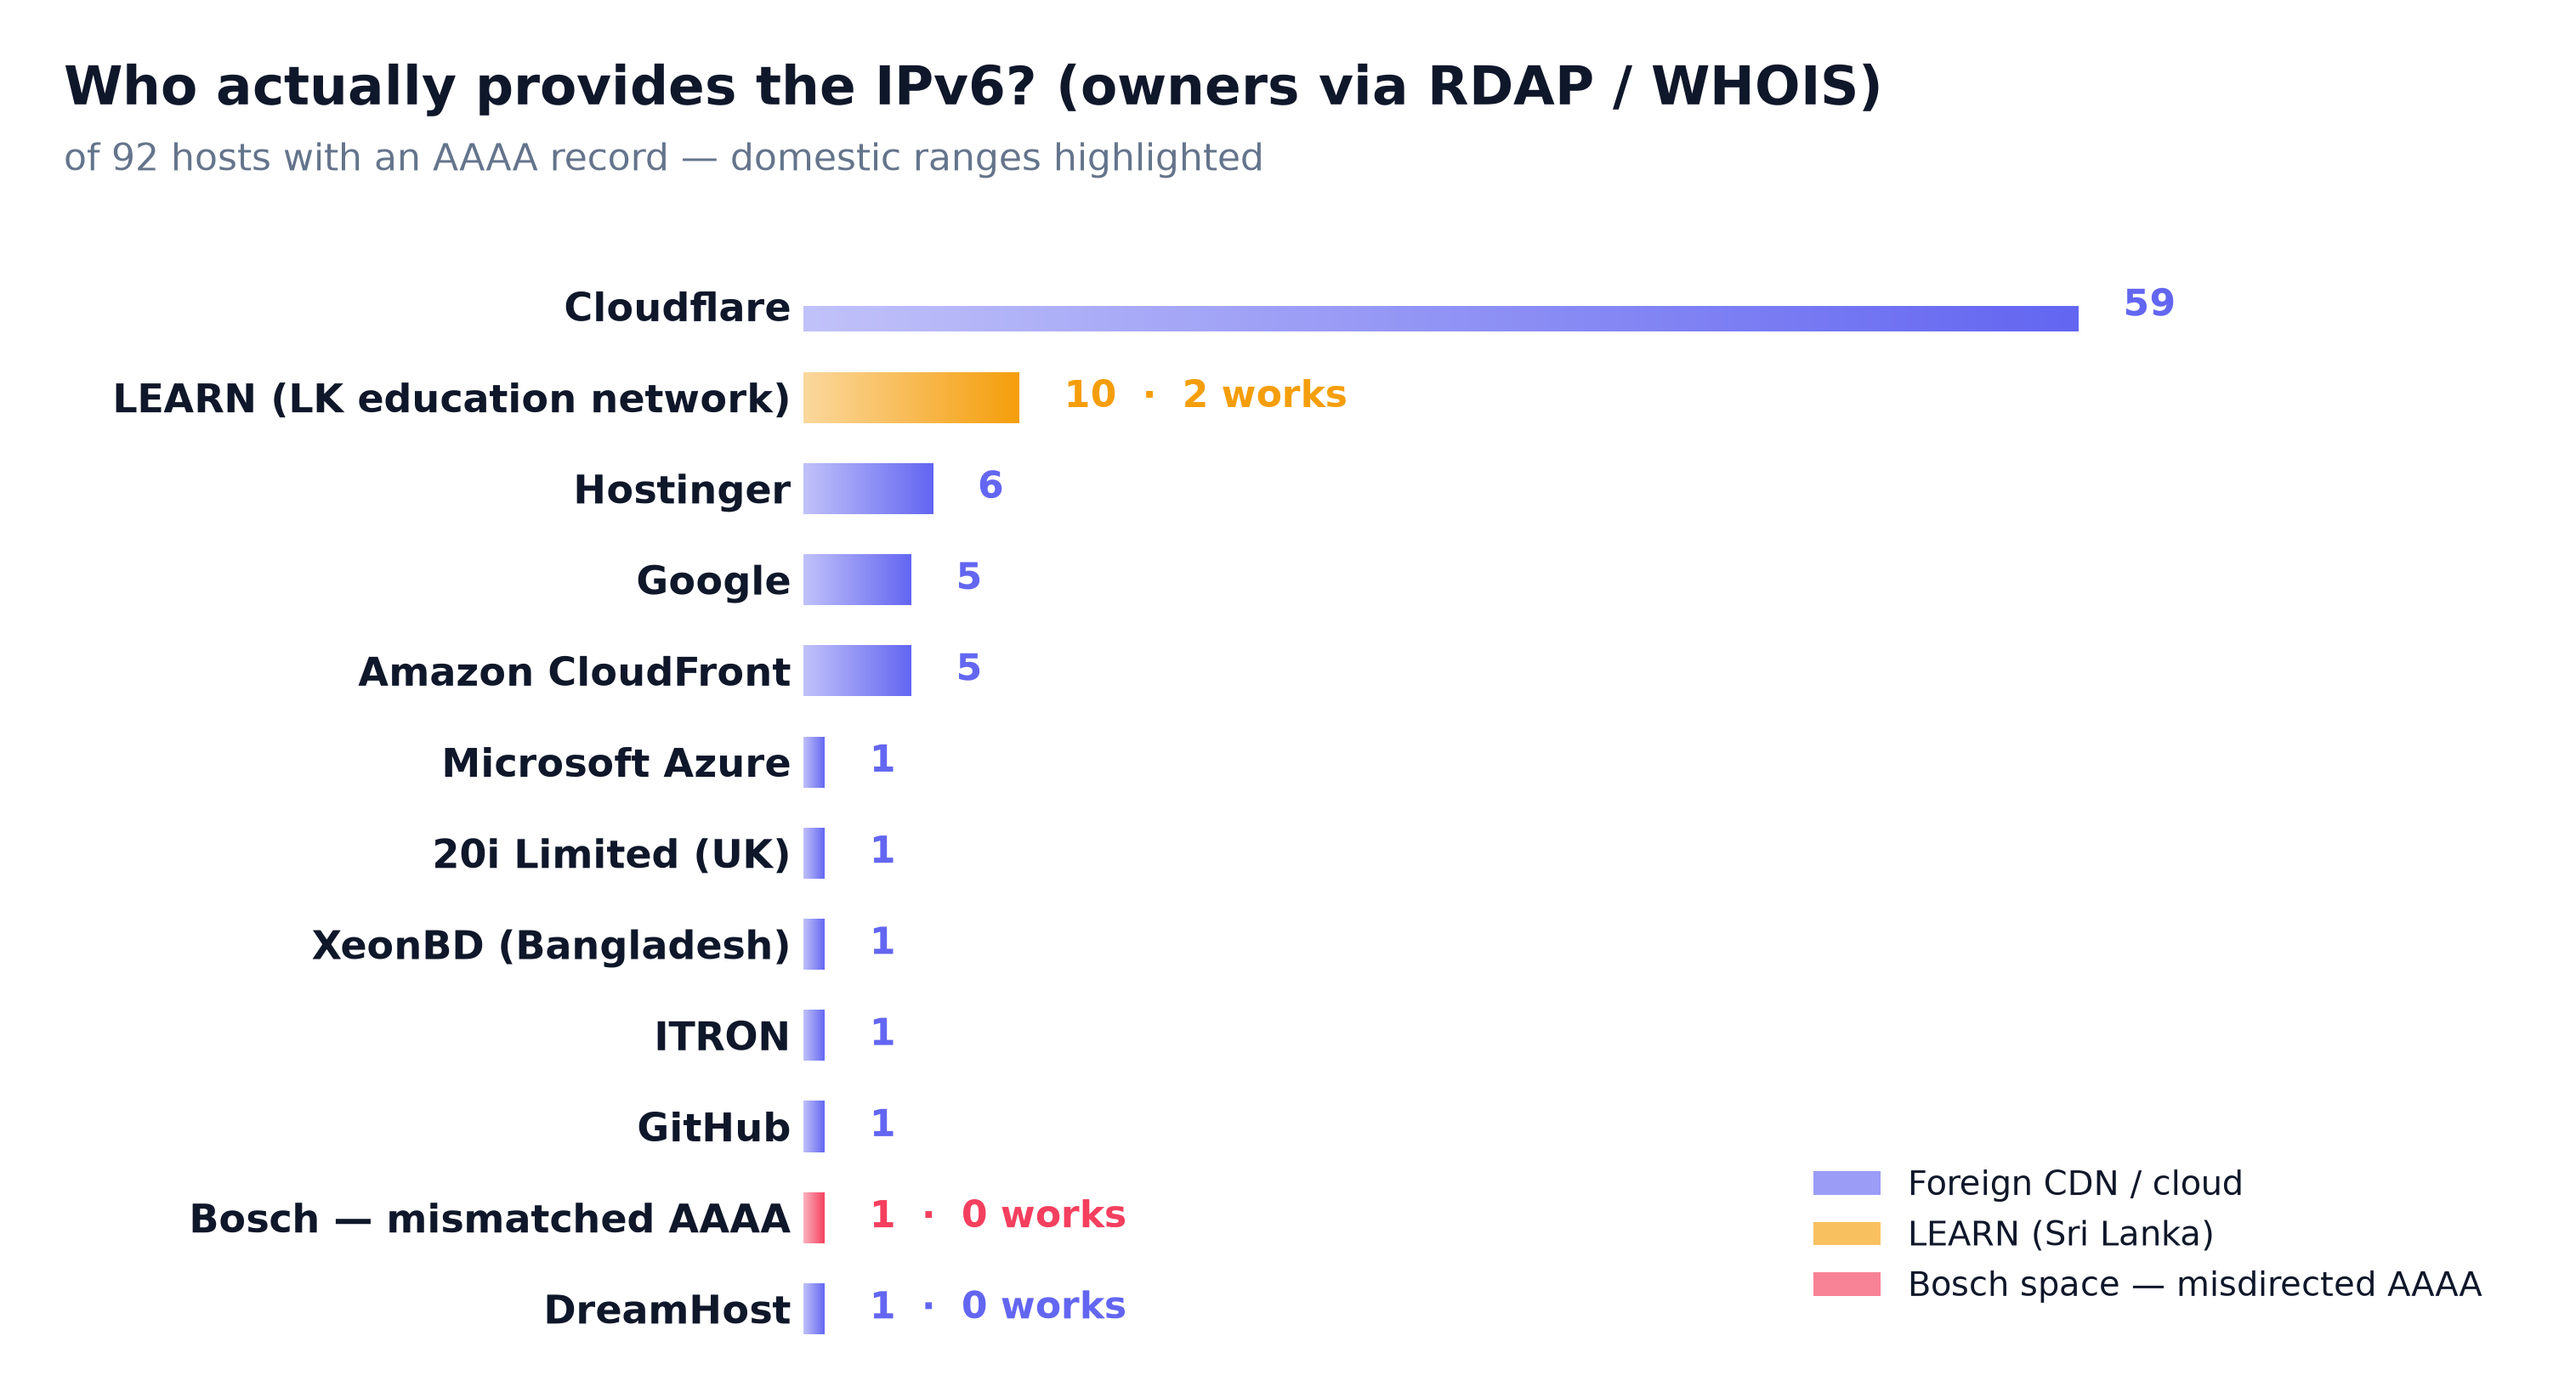
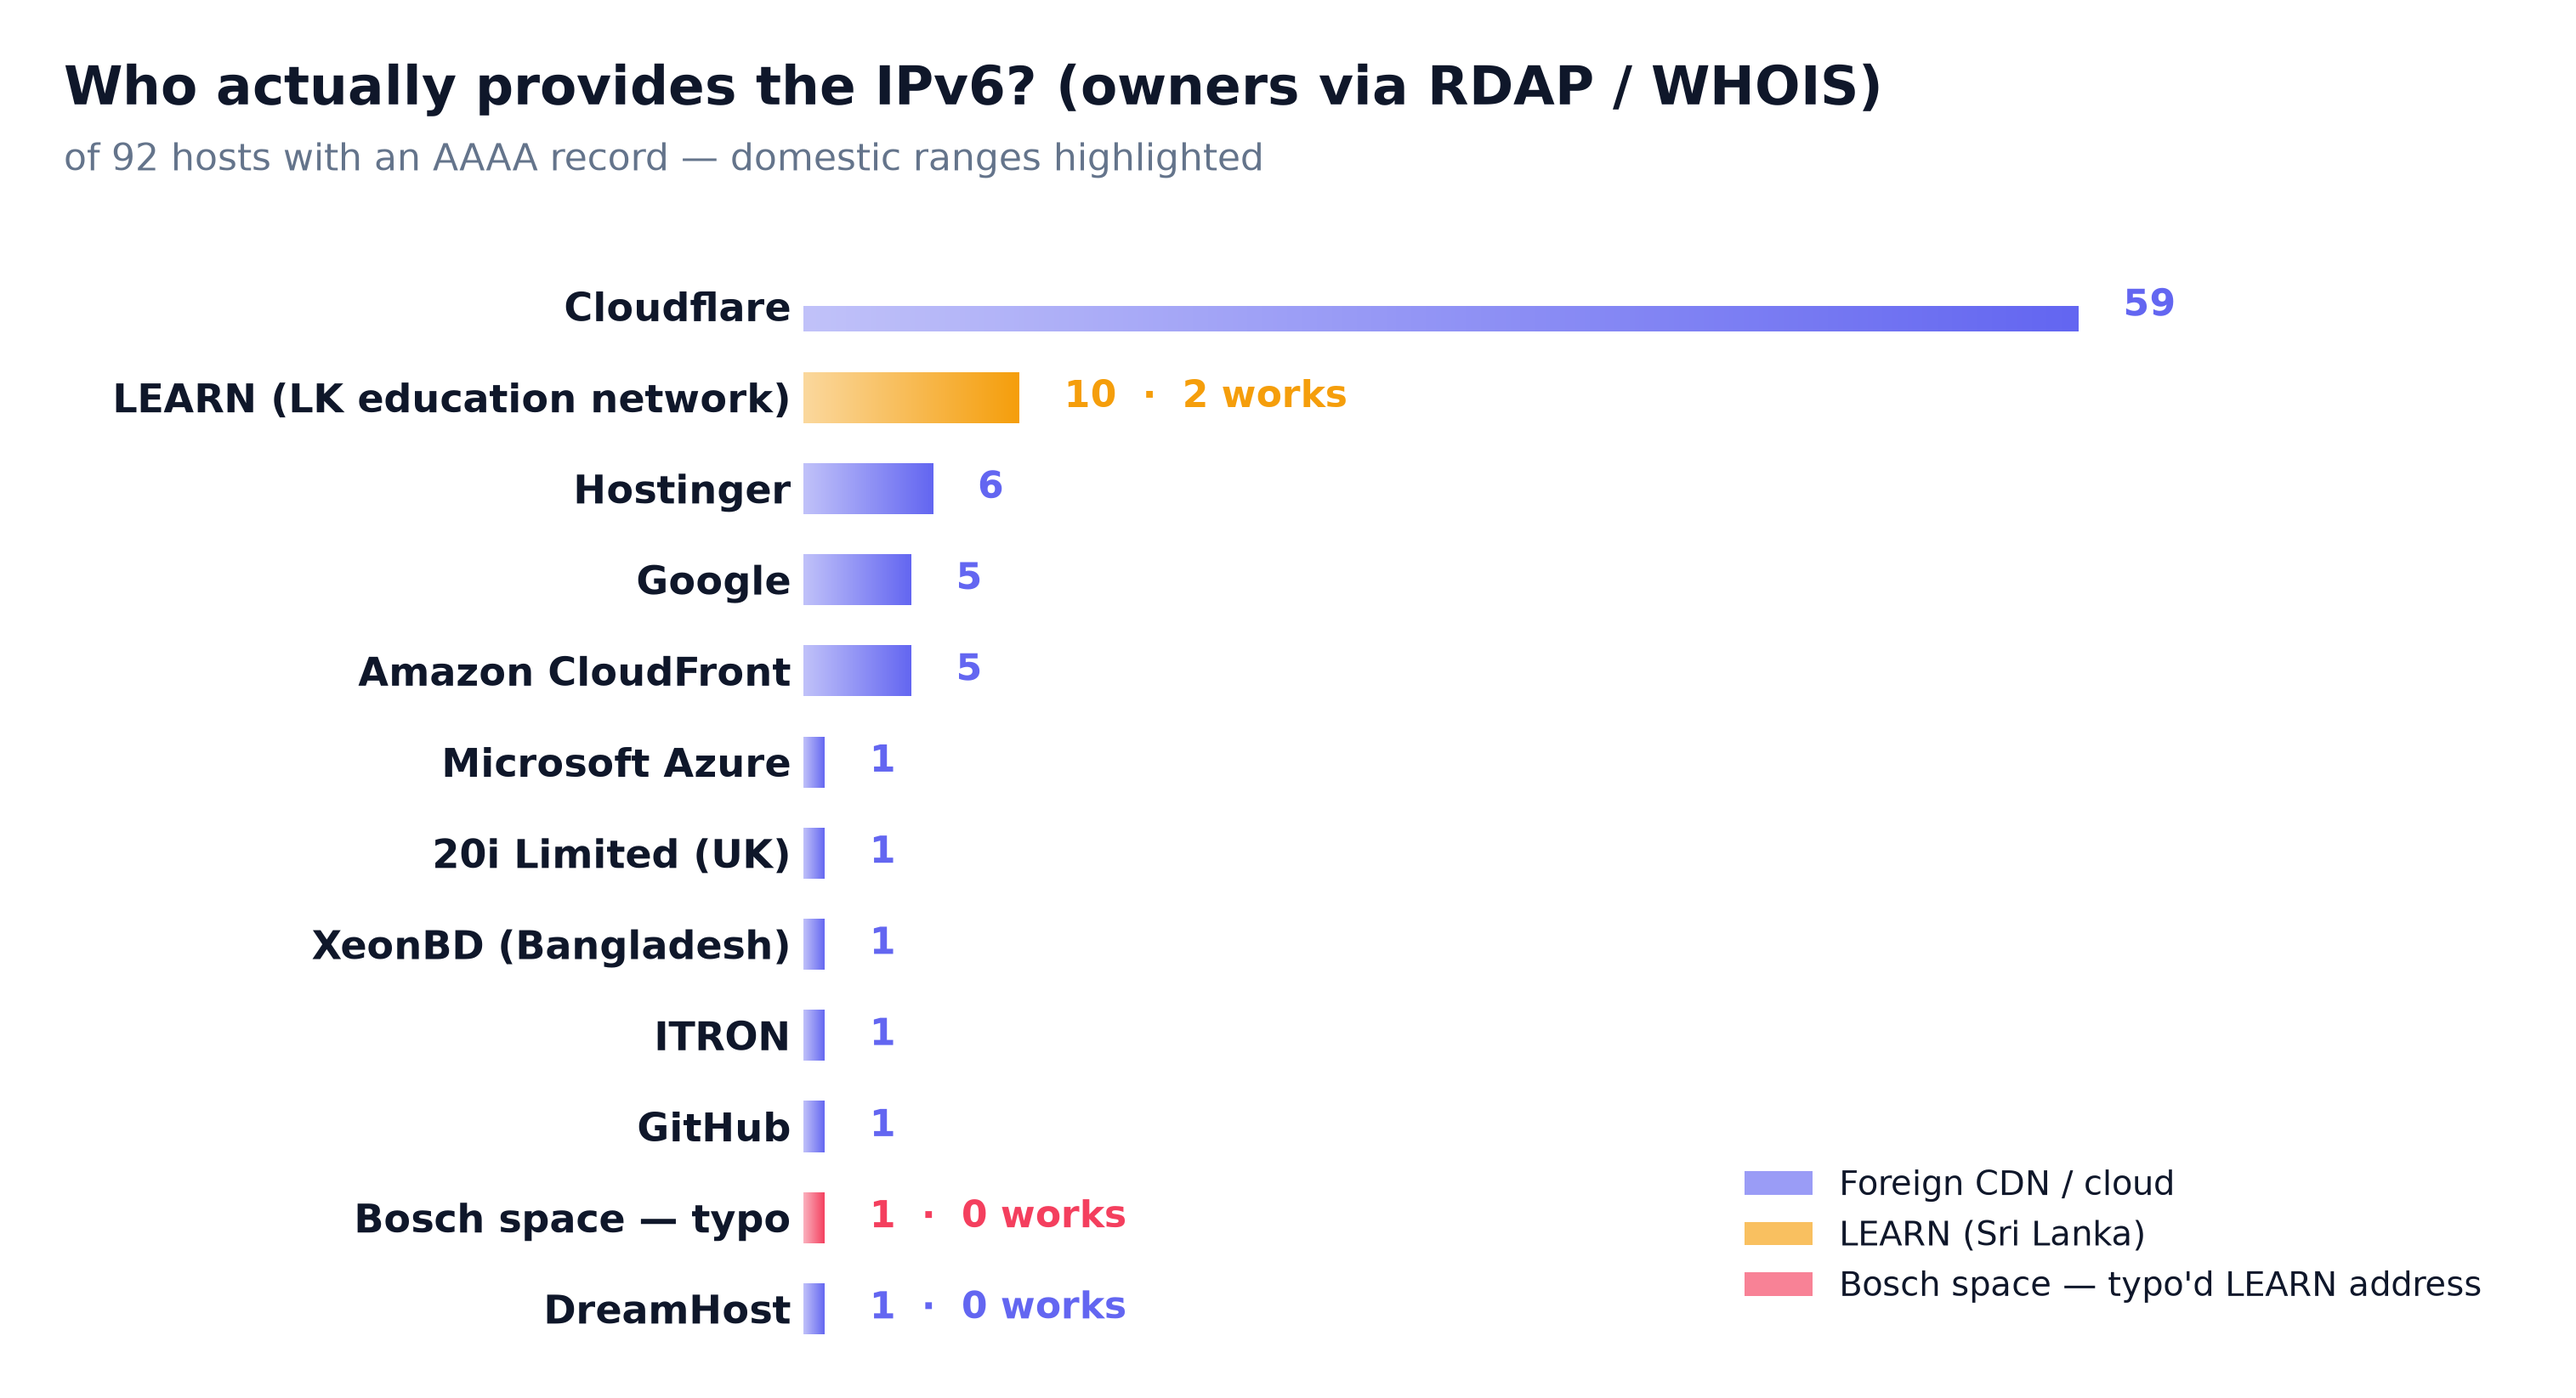
explain accimt ipv6 typo, note learn outreach, correct fcd.gov.lk status

Changed region(s): [[0.6825, 0.8371, 0.9617, 0.9301], [0.062, 0.8371, 0.3102, 0.8991]]

diff --git a/ipv6-research/make_charts.py b/ipv6-research/make_charts.py
@@ -59,7 +59,7 @@ owners = json.load(open(OWNERS)) if os.path.exists(OWNERS) else {}
 FRIENDLY = {
     "2606:4700": "Cloudflare",
     "2401:dd00": "LEARN (LK education network)",
-    "2401:d00": "Bosch — mismatched AAAA",
+    "2401:d00": "Bosch space — typo",
     "2a02:4780": "Hostinger",
     "2404:6800": "Google",
     "2600:9000": "Amazon CloudFront",
@@ -322,7 +322,7 @@ title(fig, "Who actually provides the IPv6? (owners via RDAP / WHOIS)",
 ax.legend(handles=[
     Patch(facecolor=lighten(INDIGO, 0.35), label="Foreign CDN / cloud"),
     Patch(facecolor=lighten(AMBER, 0.35), label="LEARN (Sri Lanka)"),
-    Patch(facecolor=lighten(ROSE, 0.35), label="Bosch space — misdirected AAAA"),
+    Patch(facecolor=lighten(ROSE, 0.35), label="Bosch space — typo'd LEARN address"),
 ], loc="lower right", frameon=False, fontsize=9.5)
 save(fig, "chart-v6-origin.png")
 

diff --git a/static/lk_make_charts.py b/static/lk_make_charts.py
@@ -59,7 +59,7 @@ owners = json.load(open(OWNERS)) if os.path.exists(OWNERS) else {}
 FRIENDLY = {
     "2606:4700": "Cloudflare",
     "2401:dd00": "LEARN (LK education network)",
-    "2401:d00": "Bosch — mismatched AAAA",
+    "2401:d00": "Bosch space — typo",
     "2a02:4780": "Hostinger",
     "2404:6800": "Google",
     "2600:9000": "Amazon CloudFront",
@@ -322,7 +322,7 @@ title(fig, "Who actually provides the IPv6? (owners via RDAP / WHOIS)",
 ax.legend(handles=[
     Patch(facecolor=lighten(INDIGO, 0.35), label="Foreign CDN / cloud"),
     Patch(facecolor=lighten(AMBER, 0.35), label="LEARN (Sri Lanka)"),
-    Patch(facecolor=lighten(ROSE, 0.35), label="Bosch space — misdirected AAAA"),
+    Patch(facecolor=lighten(ROSE, 0.35), label="Bosch space — typo'd LEARN address"),
 ], loc="lower right", frameon=False, fontsize=9.5)
 save(fig, "chart-v6-origin.png")
 

diff --git a/content/blog/ipv6-on-lk-gov-websites/index.md b/content/blog/ipv6-on-lk-gov-websites/index.md
@@ -75,13 +75,15 @@ Ten hosts publish an AAAA record and then fail when you actually try to use it. 
 | `uom.lk` | `2401:dd00:10:1::87` | timed out | up |
 | `www.ac.lk` | `2401:dd00:1::189` | **connection refused** | up |
 | `www.accimt.ac.lk` | `2401:d00:414::1` | timed out | up |
-| `www.fcd.gov.lk` | `2607:f298:6:a016::317:855` | timed out | down |
+| `www.fcd.gov.lk` | `2607:f298:6:a016::317:855` | timed out | down ¹ |
 | `www.mrt.ac.lk` | `2401:dd00:10:1::88` | timed out | up |
 | `www.ruh.ac.lk` | `2401:dd00:38::3` | timed out | up |
 | `www.seu.ac.lk` | `2401:dd00:1::1631` | timed out | up |
 | `www.svias.esn.ac.lk` | `2401:dd00:67:200::100` | timed out | up |
 | `www.uwu.ac.lk` | `2401:dd00:72::7` | timed out | up |
 | `www.vpa.ac.lk` | `2401:dd00:78:e001::6` | timed out | up |
+
+¹ The table is the audit snapshot. `www.fcd.gov.lk` was re-checked afterwards and serves HTTP on port 80 — see point 3 below.
 
 Three things stand out:
 
@@ -97,11 +99,13 @@ The organisation that operates the `.ac.lk` DNS zone has a AAAA record pointing 
 
 **2. Eight of the ten broken hosts sit on `2401:dd00::/32`** — Sri Lanka's domestic education/research network, operated by LEARN. It's not one or two flaky servers: `mrt`, `ruh`, `seu`, `uwu`, `vpa`, `svias`, `uom` and `ac.lk` all advertise IPv6 addresses that black-hole TCP. Across that whole prefix exactly **two** hosts have a working web server over IPv6: `www.pgis.lk` and `www.ucsc.cmb.ac.lk`. Whoever runs that network has enabled AAAA at the DNS level but not actually made the web tier reachable over IPv6.
 
-`www.accimt.ac.lk` is even stranger: its AAAA (`2401:d00:414::1`) isn't a LEARN address at all — it falls inside **Bosch's** `2401:0d00::/32`, an unrelated corporate network. A misdirected record, and it times out exactly like the rest.
+`www.accimt.ac.lk` is the odd one out: its AAAA is `2401:d00:414::1`, exactly **one dropped `d`** away from `2401:dd00:414::1` — LEARN's `2401:dd00::/32`. RDAP confirms `2401:0d00::/32` has been Bosch's since 2011, while `2401:dd00::/32` is LEARN's, and accimt's IPv4 (`192.248.85.7`) sits inside LEARN's own `192.248.0.0/17`. So the record is a typo in the DNS zone rather than a deliberate foreign host — although correcting the typo alone won't bring the site up, since nothing answers on the LEARN address either.
 
-**3. `www.fcd.gov.lk` is just dead** — IPv4 doesn't answer either (though a second probe run did catch IPv4 up, so it's at least partially flaky).
+**3. `www.fcd.gov.lk` is serving plain HTTP only.** At audit time port 443 didn't answer on IPv4 either, which initially looked like a dead site. Re-checking on 6 October, the site is very much alive on port 80 (`200 OK`, Apache) — but 443 still answers on neither address family, and the IPv6 failure has hardened from a timeout into `No route to host`. So the AAAA record is doubly useless here: the address isn't routed, and even if it were, there's no HTTPS listener behind it.
 
 These are worse than having no AAAA at all: a dual-stack client tries IPv6 first, waits for the timeout (happy eyeballs fallback usually saves the user, but adds latency), and metrics collected from AAAA lookups alone will count these as "IPv6 enabled".
+
+**LEARN has been notified** about all ten broken records, including the `www.ac.lk` refusal and the `www.accimt.ac.lk` typo.
 
 ## Where does the IPv6 actually come from?
 
@@ -109,7 +113,7 @@ These are worse than having no AAAA at all: a dual-stack client tries IPv6 first
 
 Every `/32` above was looked up through [RDAP](https://rdap.org) / WHOIS to find its real owner. Of the 92 hosts with an AAAA record, **59 are Cloudflare** (`2606:4700::/32`). The rest: Hostinger 6 (`2a02:4780::/32`), Google 5, Amazon CloudFront 5 (behind `cbsl`, `mfa`, `sec`, `hdfc` and `sliit`), then one each from Microsoft, GitHub, ITRON, UK host 20i, XeonBD in Bangladesh and DreamHost — **81 of 92 (88%) of Sri Lanka's "IPv6-enabled" government web presence is provided by networks outside the country, not by local infrastructure.**
 
-The only domestic IPv6 on the list comes from `2401:dd00::/32` — **LEARN's own network: 10 hosts, of which only 2 actually work.** The eleventh "local-looking" address, `www.accimt.ac.lk`'s `2401:d00:414::1`, turns out to be inside Bosch's corporate space instead (see above).
+The only domestic IPv6 on the list comes from `2401:dd00::/32` — **LEARN's own network: 10 hosts, of which only 2 actually work.** The eleventh "local-looking" address, `www.accimt.ac.lk`'s `2401:d00:414::1`, is a typo'd attempt at a LEARN address that landed in someone else's block instead (see above).
 
 ## Local hosting has no IPv6 at all
 
@@ -134,7 +138,7 @@ www.sltc.lk  (apex sltc.lk still resolves, but without AAAA)
 - **When AAAA exists it's usually real IPv6** — 89.1% work end-to-end, all with valid certificates, mostly TLS 1.3.
 - **But 10 hosts have lies in DNS**: AAAA records with nothing listening behind them. Nine are IPv6-only breakages (IPv4 fine), and eight of them are on one domestic prefix, `2401:dd00::/32`.
 - **The irony:** the `.ac.lk` registry's own website is on that list.
-- **88% of the working IPv6 comes from outside the country** (mostly Cloudflare). The only domestic source is LEARN's `2401:dd00::/32` — 10 AAAA records, 8 of them broken — plus one address that points into Bosch's space by mistake.
+- **88% of the working IPv6 comes from outside the country** (mostly Cloudflare). The only domestic source is LEARN's `2401:dd00::/32` — 10 AAAA records, 8 of them broken — plus one address that's a typo'd attempt at a LEARN address.
 - Fixing this isn't about webmasters — it's about the handful of local hosting providers serving 200+ government sites without IPv6.
 
 ## Downloads
